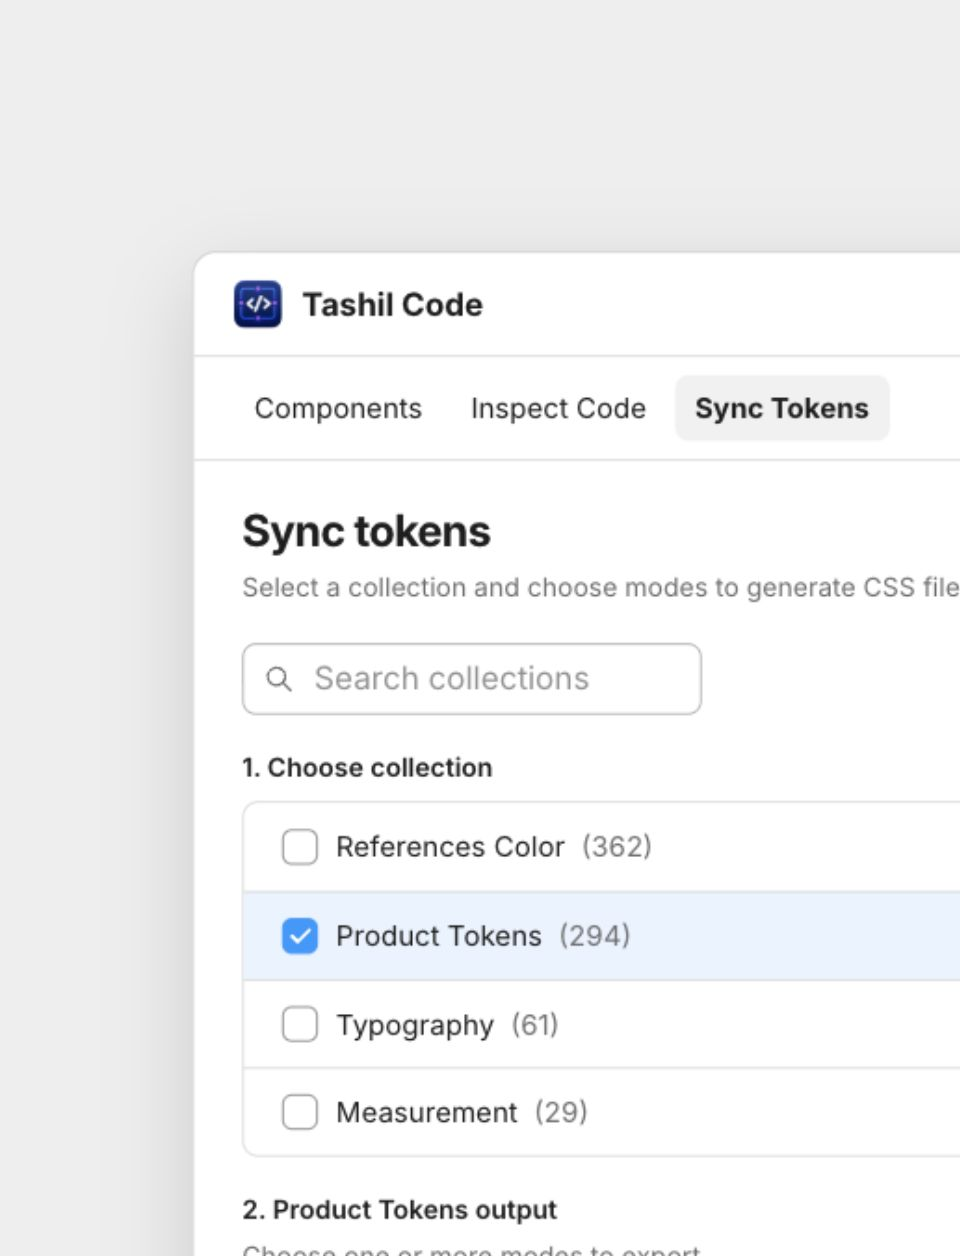
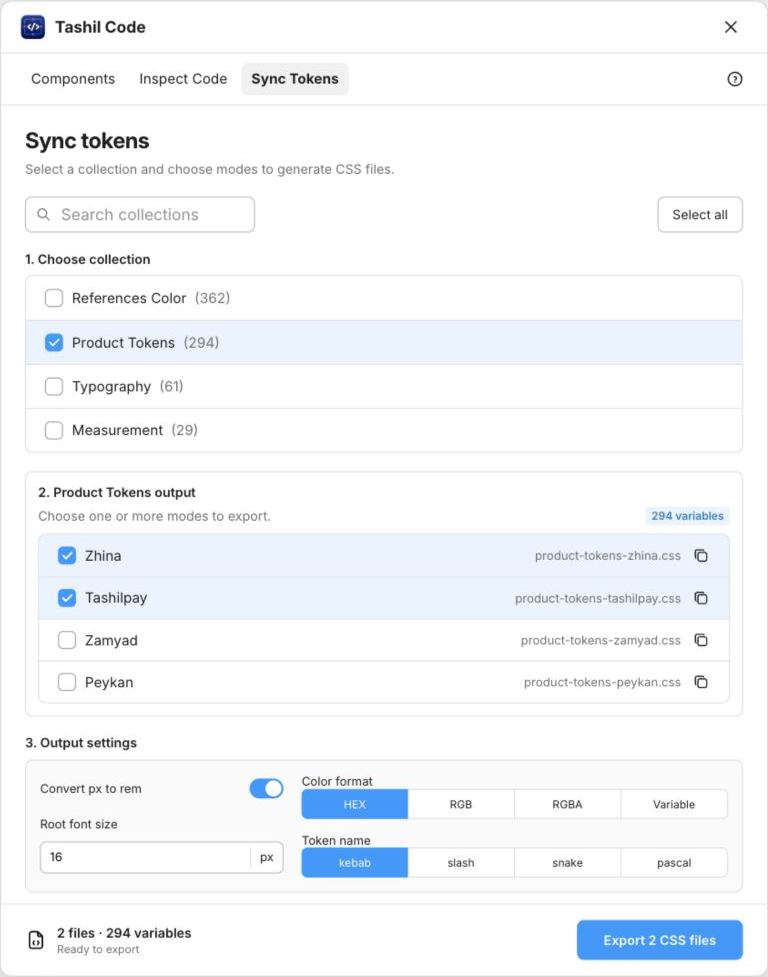
Add prototype output copy controls (#17)

diff --git a/prototypes/sync-tokens-redesign/src/App.jsx b/prototypes/sync-tokens-redesign/src/App.jsx
@@ -1,6 +1,7 @@
 import { useMemo, useState } from "react";
 import {
   IconCheck,
+  IconCopy,
   IconFileCode,
   IconHelpCircle,
   IconSearch,
@@ -68,6 +69,7 @@ export function App() {
   const [colorFormat, setColorFormat] = useState("hex");
   const [nameStyle, setNameStyle] = useState("kebab");
   const [exported, setExported] = useState(false);
+  const [copiedFile, setCopiedFile] = useState("");
 
   const filtered = useMemo(() => {
     const needle = query.trim().toLowerCase();
@@ -208,6 +210,7 @@ export function App() {
                 {focusedCollection.modes.map((mode) => {
                   const checked = focusedModes.has(mode);
                   const suffix = focusedCollection.modes.length > 1 ? `-${slug(mode)}` : "";
+                  const filename = `${slug(focusedCollection.name)}${suffix}.css`;
                   return (
                     <div className={checked ? "mode-row selected" : "mode-row"} key={mode}>
                       <CheckControl
@@ -222,7 +225,16 @@ export function App() {
                       >
                         {mode}
                       </button>
-                      <span className="filename">{slug(focusedCollection.name)}{suffix}.css</span>
+                      <span className="filename">{filename}</span>
+                      <button
+                        aria-label={`Copy ${filename}`}
+                        className="copy-button"
+                        onClick={() => setCopiedFile(filename)}
+                        title={copiedFile === filename ? "Copied" : `Copy ${filename}`}
+                        type="button"
+                      >
+                        {copiedFile === filename ? <IconCheck size={15} /> : <IconCopy size={15} />}
+                      </button>
                     </div>
                   );
                 })}

diff --git a/prototypes/sync-tokens-redesign/src/styles.css b/prototypes/sync-tokens-redesign/src/styles.css
@@ -203,6 +203,12 @@ body {
   margin-top: 18px;
 }
 
+.output-section {
+  border: 1px solid var(--border);
+  border-radius: 8px;
+  padding: 12px;
+}
+
 .builder-section h2,
 .settings-section h2 {
   font-size: 13px;
@@ -300,6 +306,24 @@ body {
 .filename {
   font-size: 12px;
   margin-left: auto;
+}
+
+.copy-button {
+  align-items: center;
+  background: transparent;
+  border: 0;
+  border-radius: 5px;
+  cursor: pointer;
+  display: inline-flex;
+  height: 28px;
+  justify-content: center;
+  margin-left: 6px;
+  padding: 0;
+  width: 28px;
+}
+
+.copy-button:hover {
+  background: rgb(255 255 255 / 70%);
 }
 
 .empty-state,
